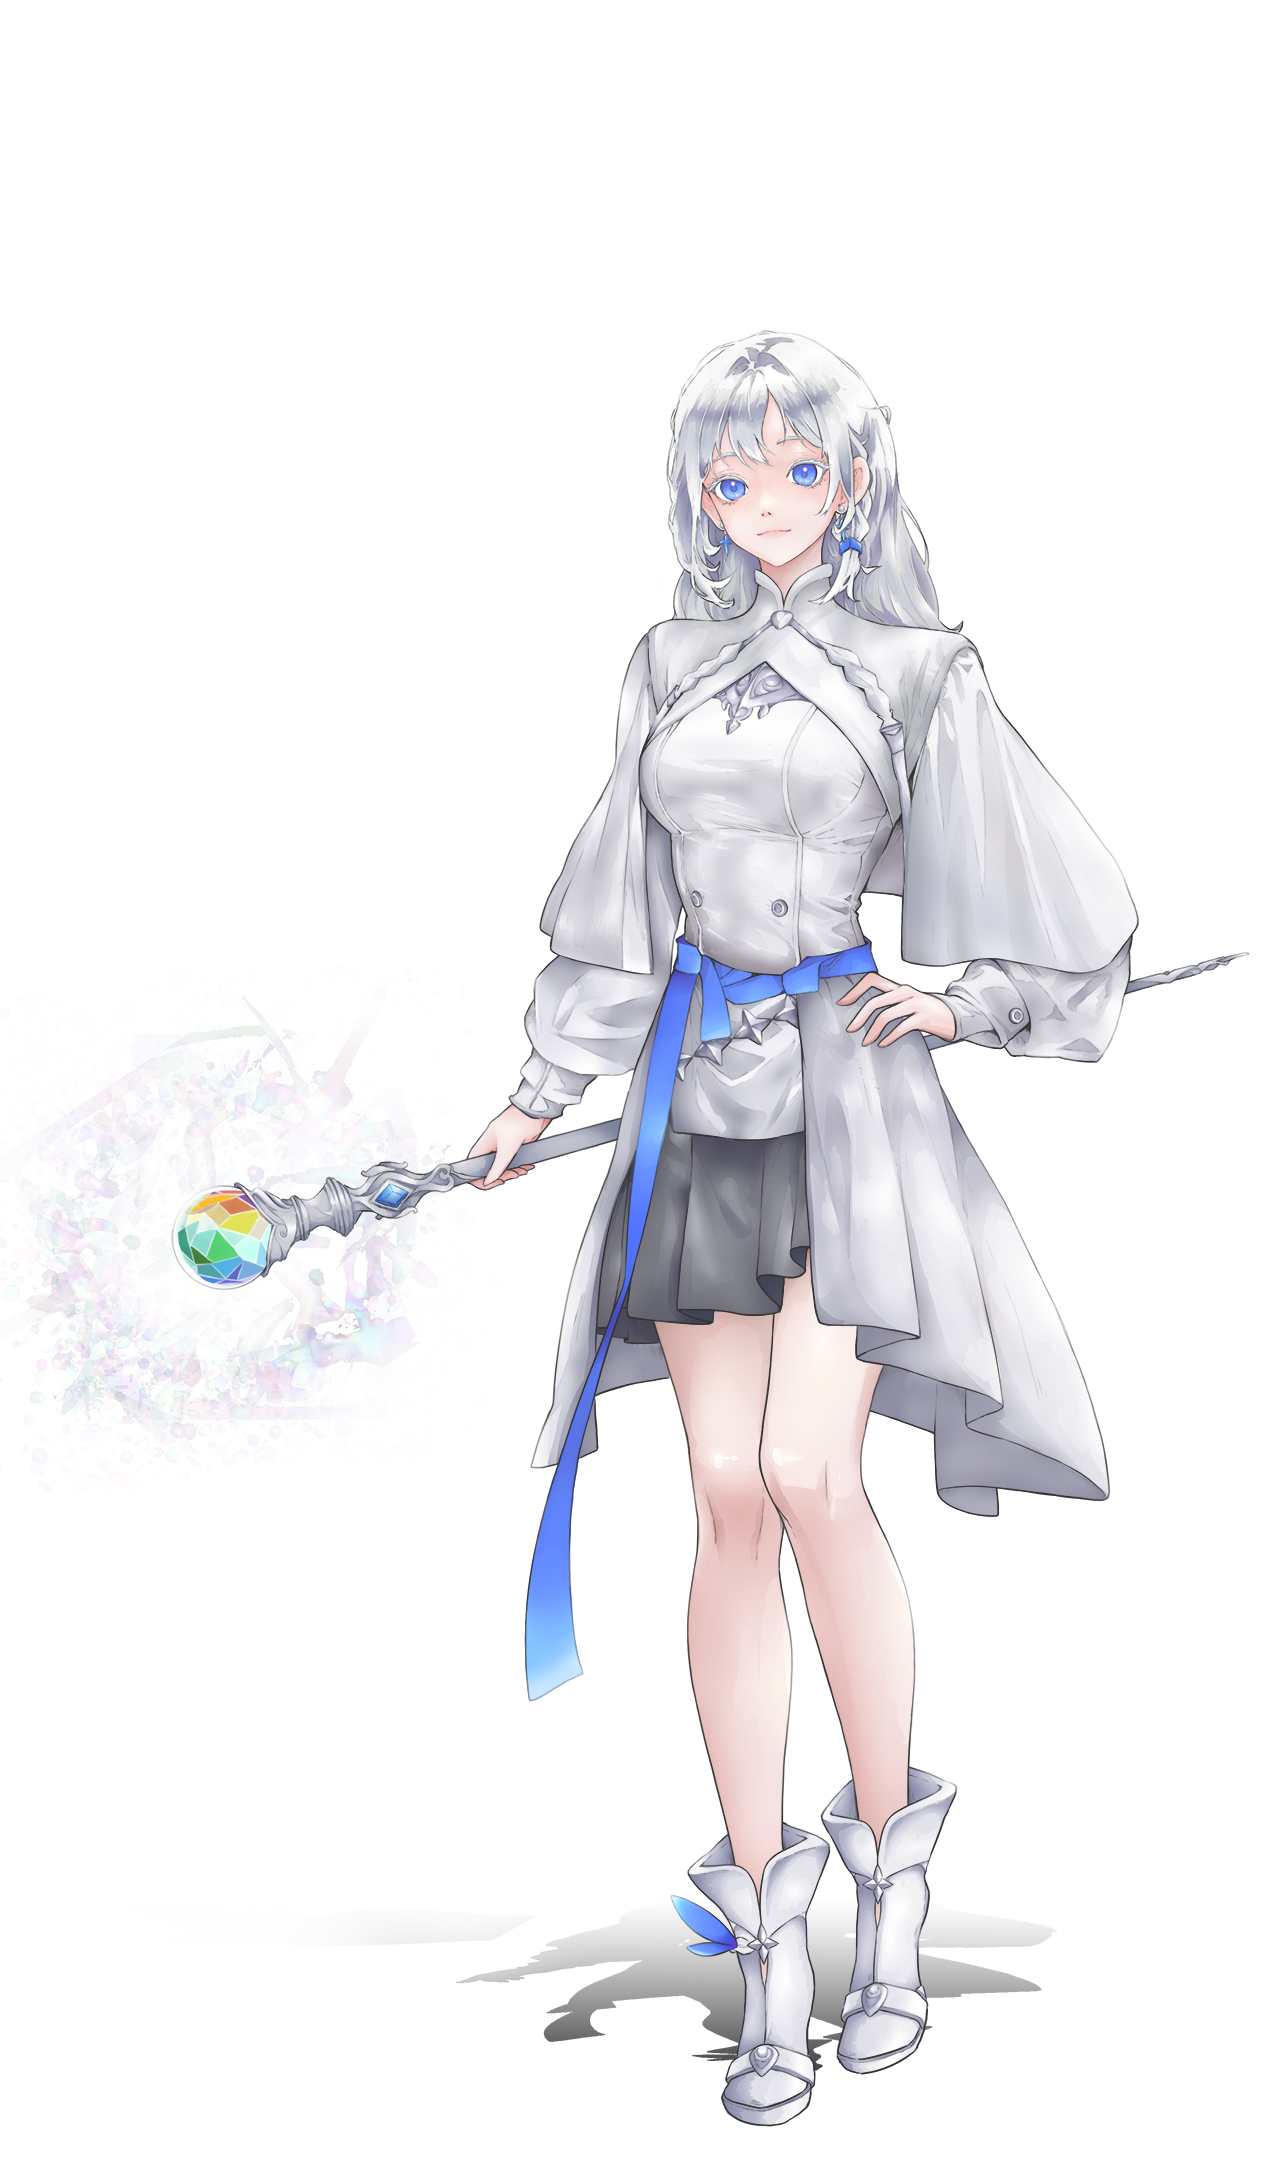
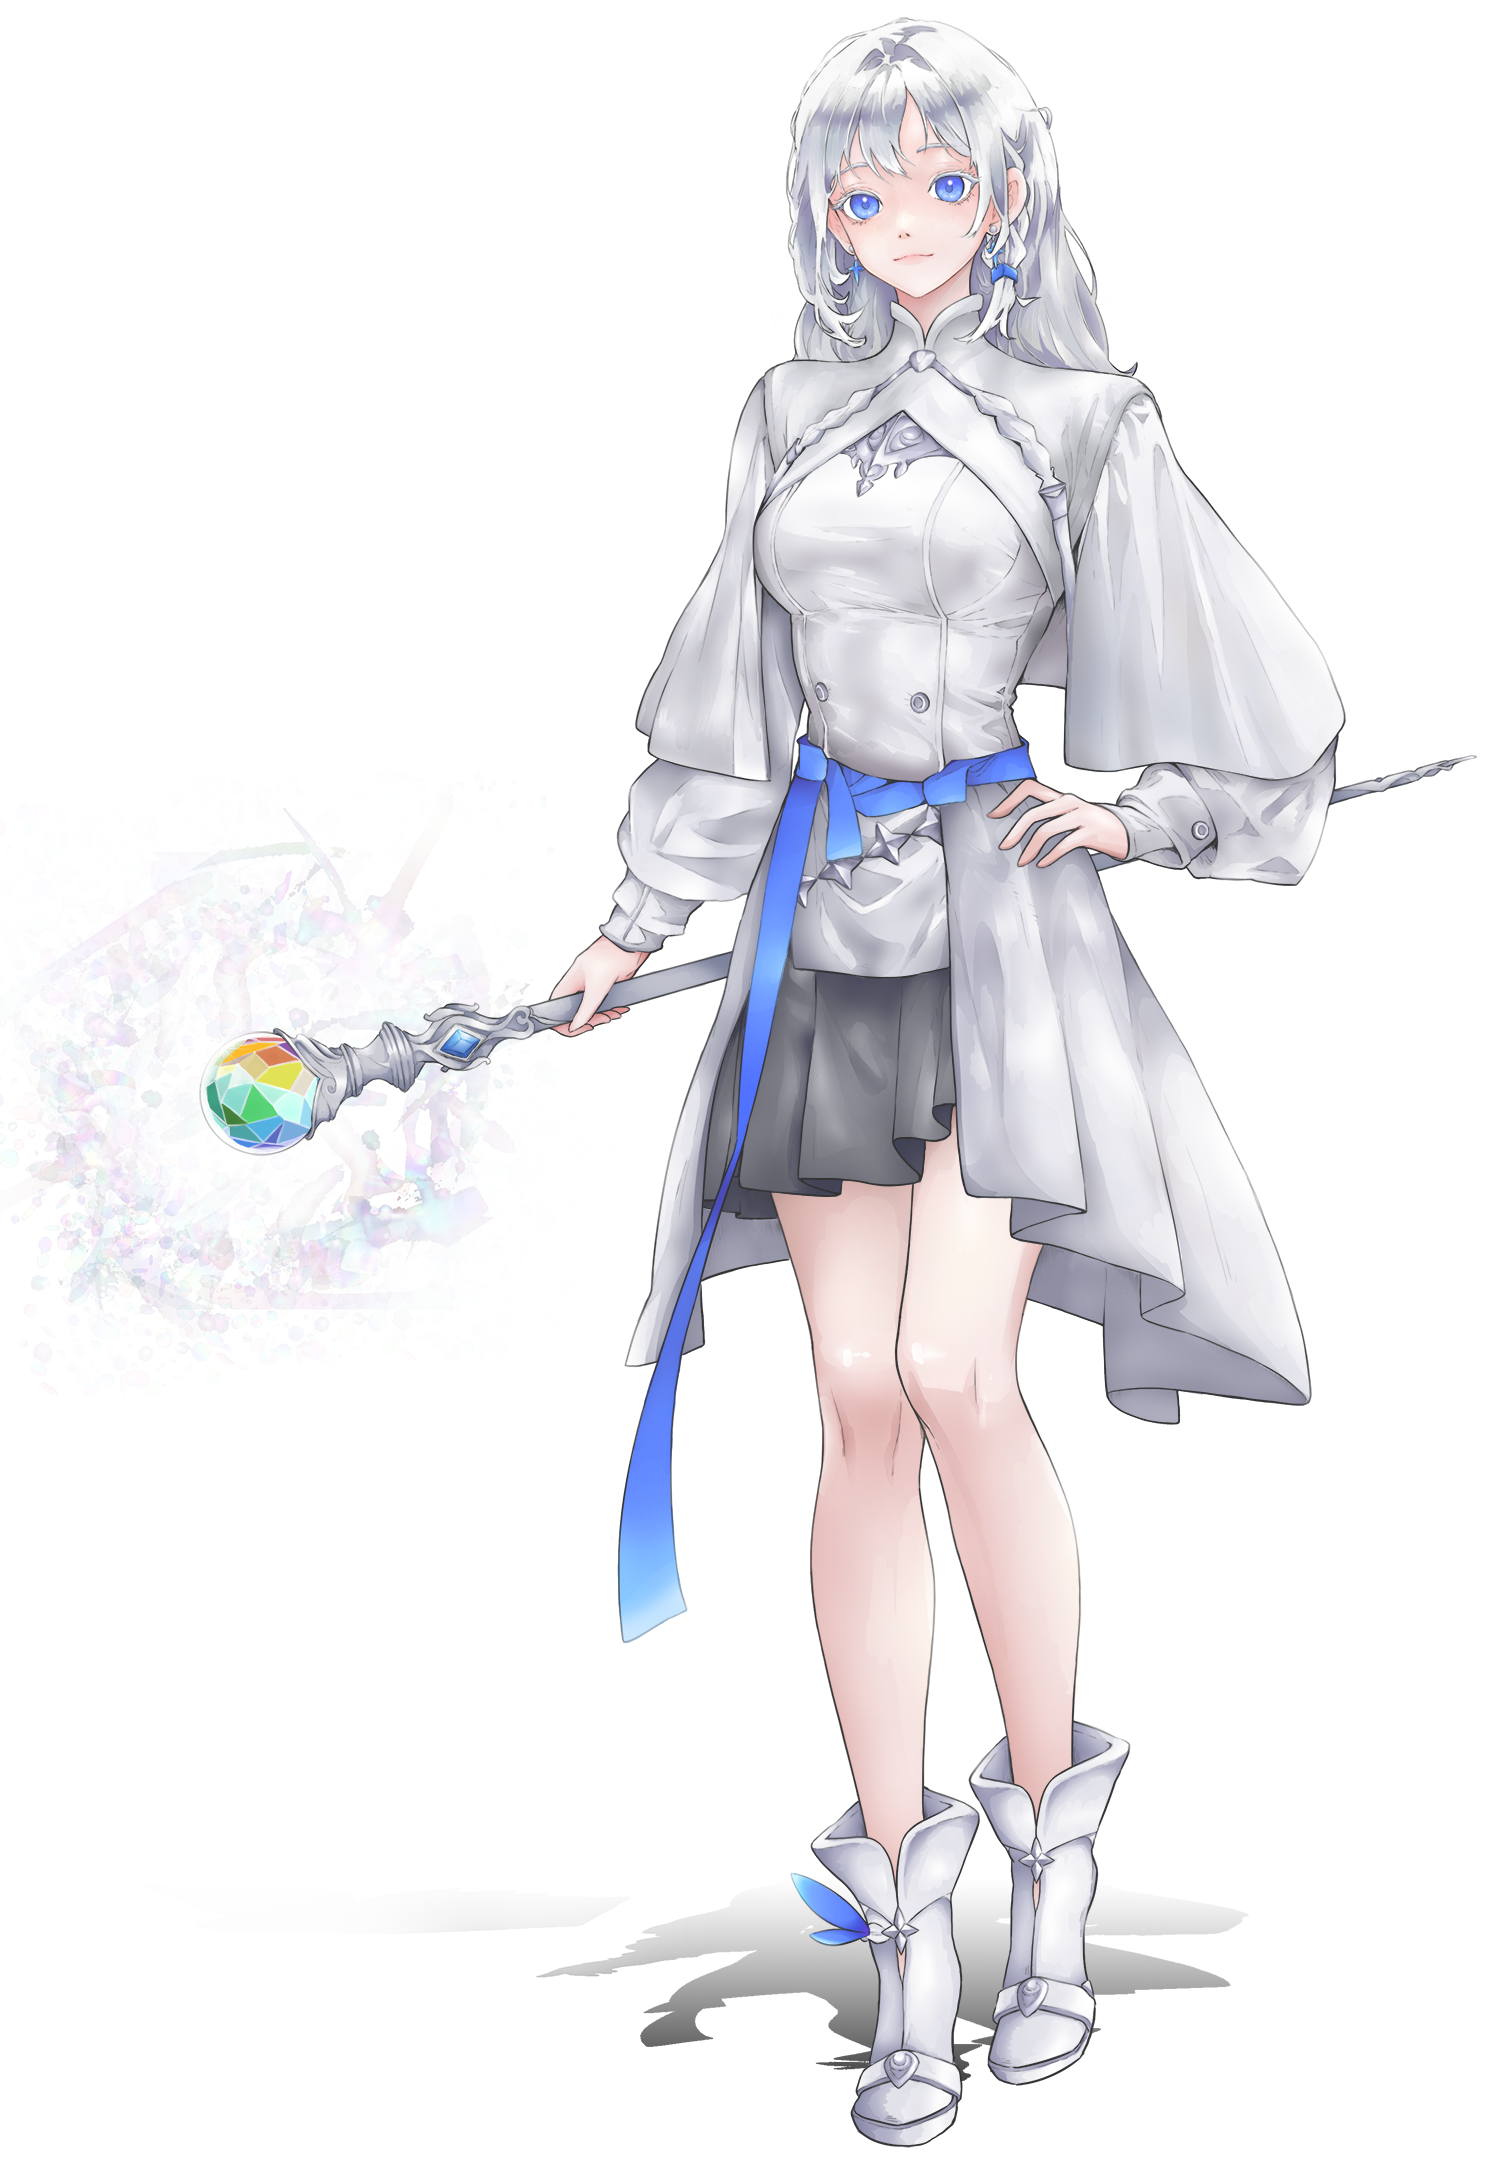
chore: adjust chars art

diff --git a/css/character.css b/css/character.css
@@ -105,6 +105,8 @@ a {
 }
 
 .main-intro {
+    background-color: rgba(255, 255, 255, .9);
+    box-shadow: 0 2px 100px 100px rgba(255, 255, 255, .9);
     width: 480px;
     margin-top: 30px;
     font-size: 1.7rem;
@@ -126,6 +128,20 @@ a {
 .main-art-img {
     object-fit: contain;
     height: 100%;
+}
+
+.main-ignite .main-art-img {
+    top: 0;
+    right: -160px;
+}
+
+.main-blade .main-art-img {
+    right: -160px;
+}
+
+.main-hope .main-art-img {
+    top: 0px;
+    right: 60px;
 }
 
 .abilities {
@@ -190,13 +206,4 @@ a {
 
 .ability-mp {
     color: #00b8ff;
-}
-
-/* Custom */
-.ability-light {
-    color: #c9c39c;
-}
-
-.ability-dark {
-    color: #584a45;
 }
